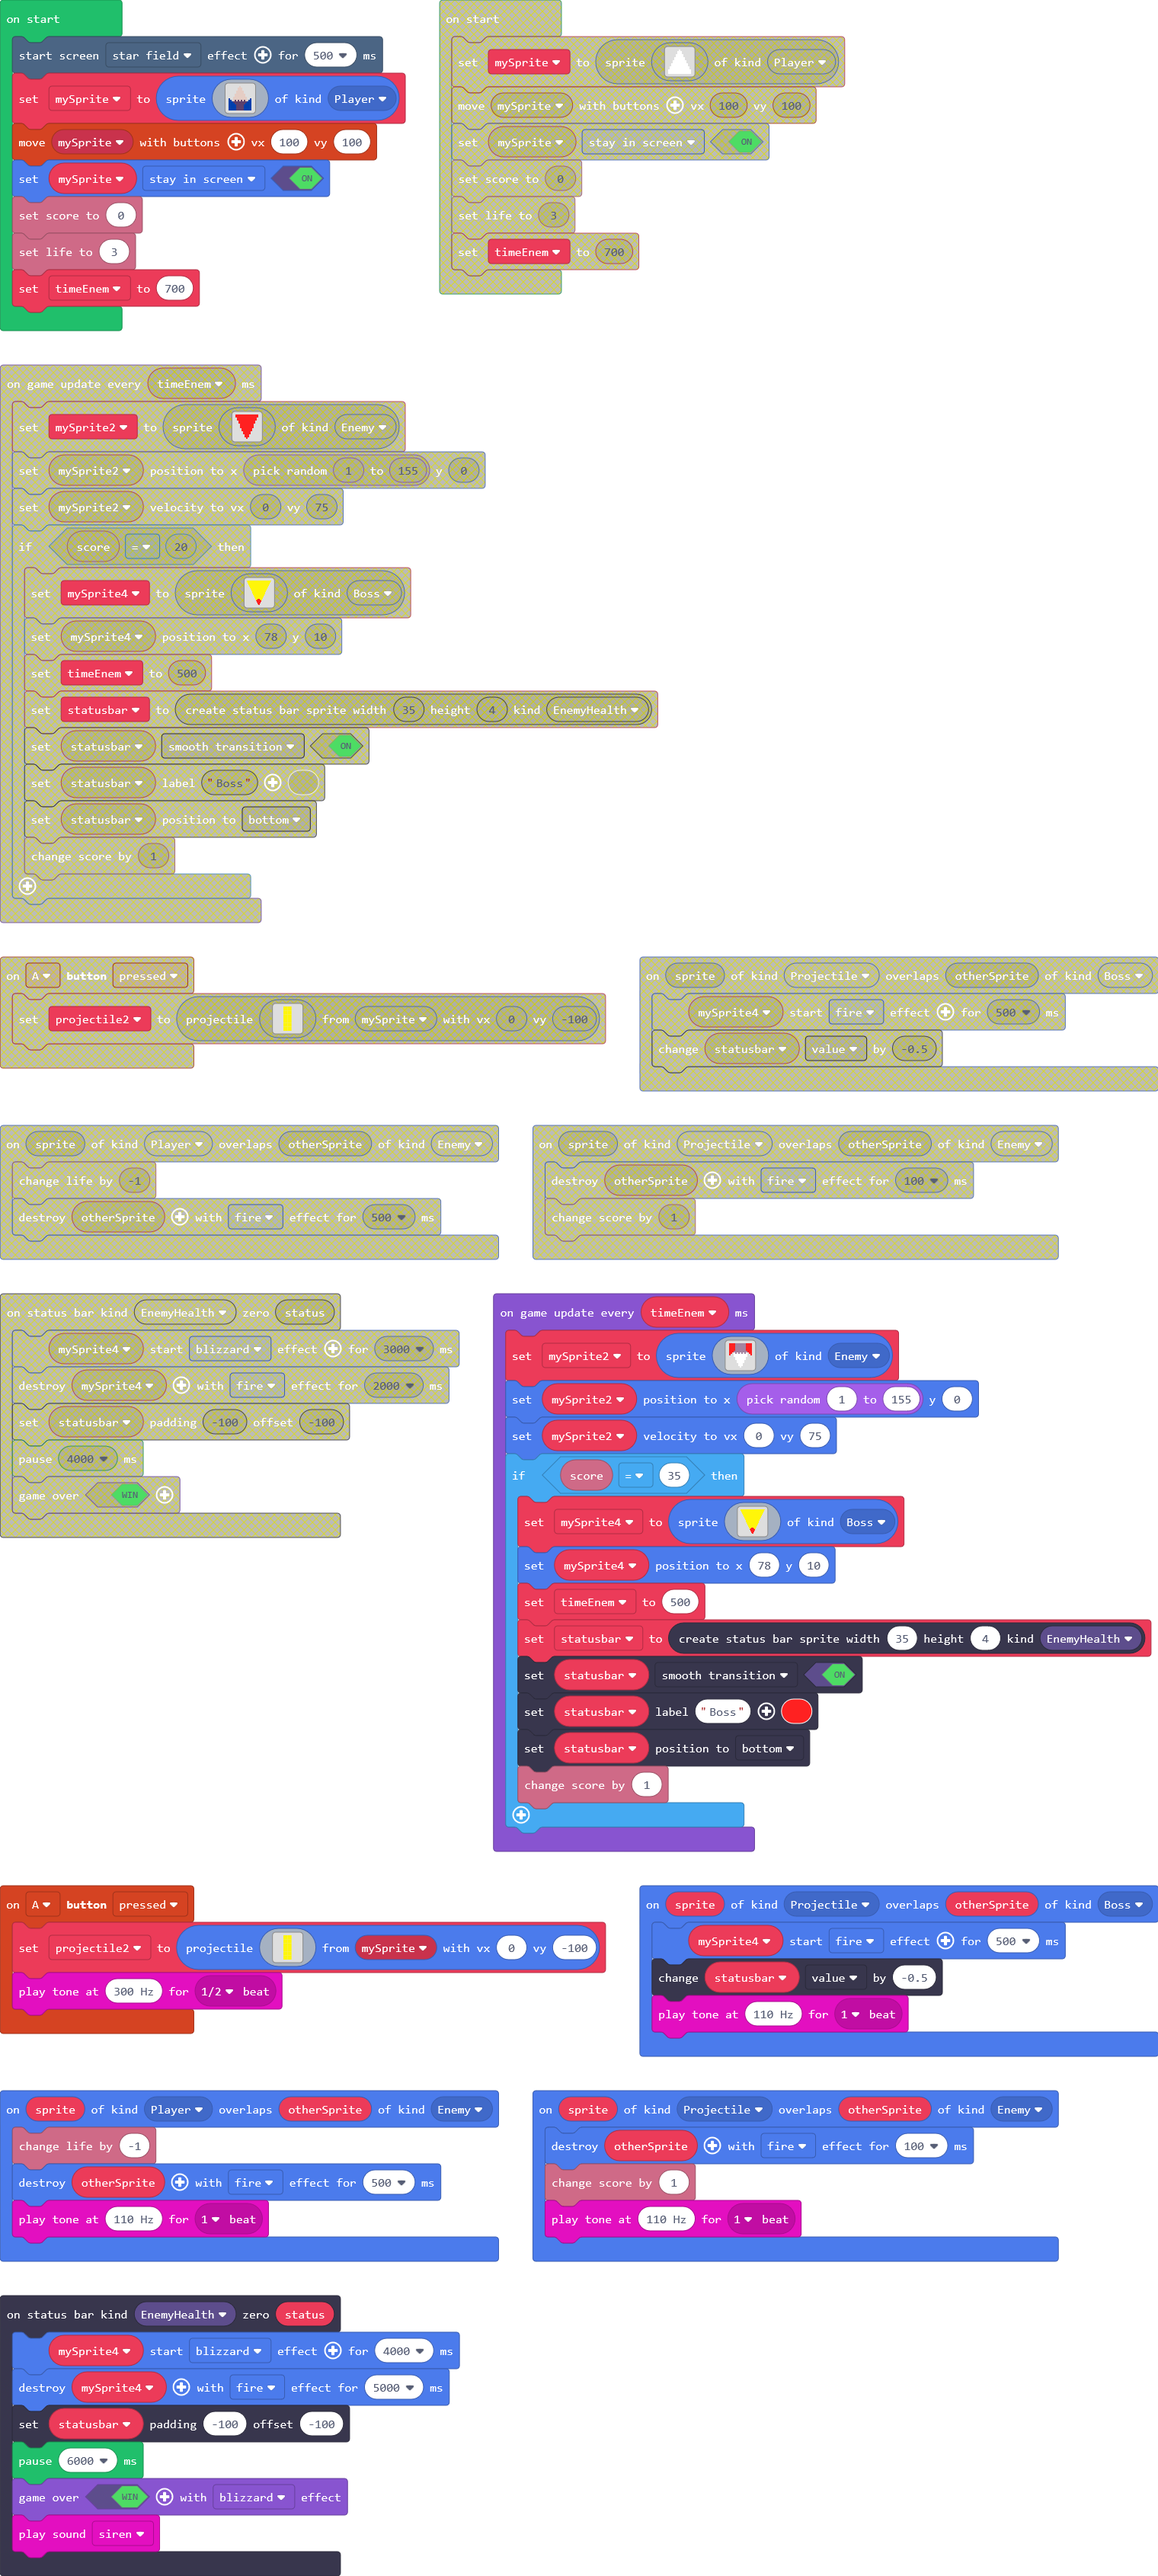
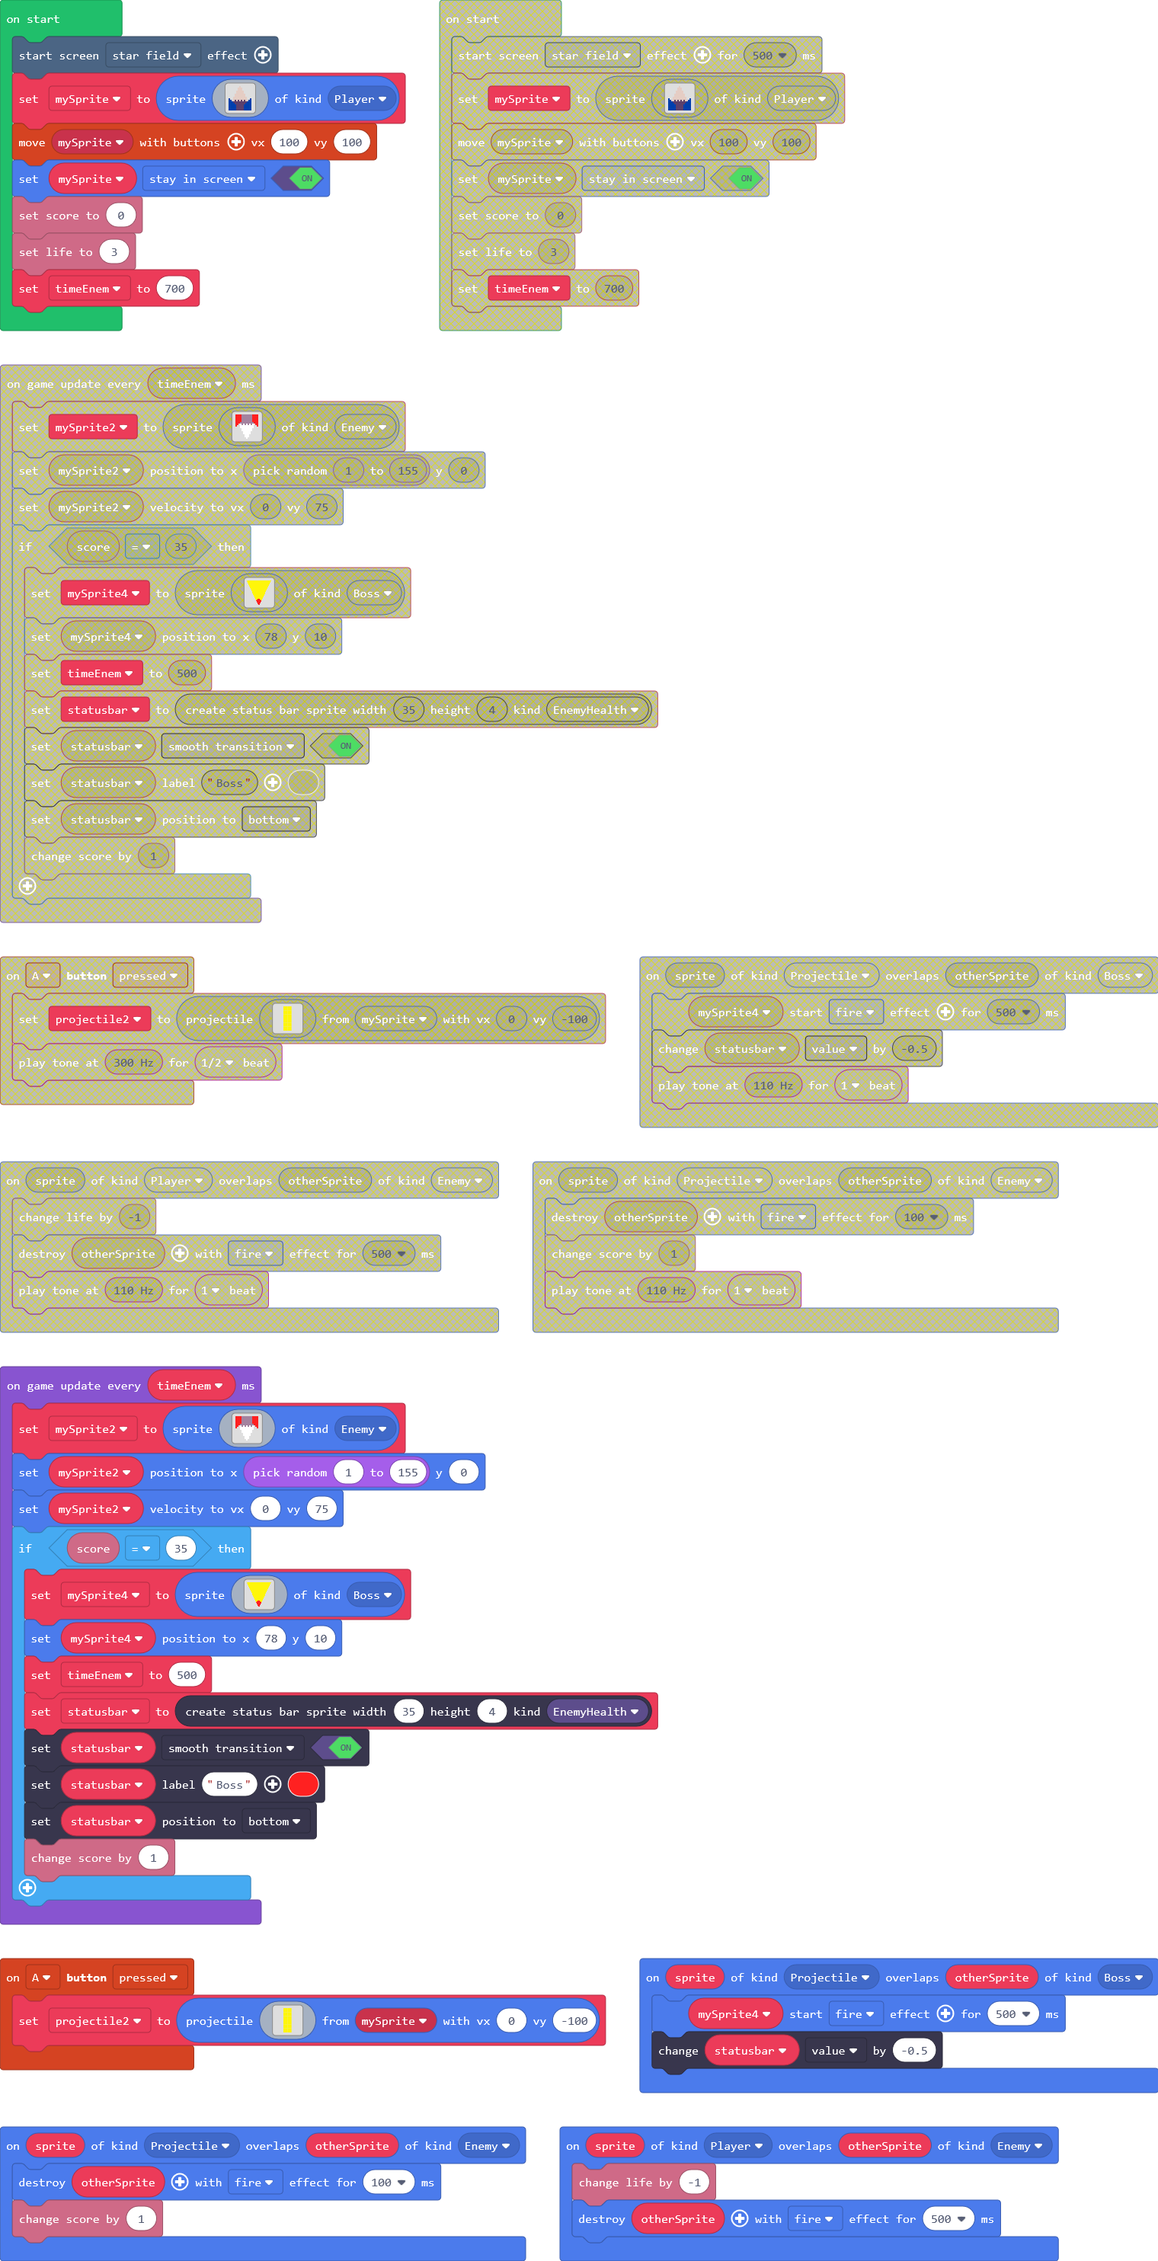
Update main.blocks, main.ts

diff --git a/main.ts b/main.ts
@@ -34,12 +34,10 @@ statusbars.onZero(StatusBarKind.EnemyHealth, function (status) {
 sprites.onOverlap(SpriteKind.Projectile, SpriteKind.Boss, function (sprite, otherSprite) {
     mySprite4.startEffect(effects.fire, 500)
     statusbar.value += -0.5
-    music.playTone(110, music.beat(BeatFraction.Whole))
 })
 sprites.onOverlap(SpriteKind.Projectile, SpriteKind.Enemy, function (sprite, otherSprite) {
     otherSprite.destroy(effects.fire, 100)
     info.changeScoreBy(1)
-    music.playTone(110, music.beat(BeatFraction.Whole))
 })
 controller.A.onEvent(ControllerButtonEvent.Pressed, function () {
     projectile2 = sprites.createProjectileFromSprite(img`
@@ -50,12 +48,10 @@ controller.A.onEvent(ControllerButtonEvent.Pressed, function () {
 5 5 
 5 5 
 `, mySprite, 0, -100)
-    music.playTone(300, music.beat(BeatFraction.Half))
 })
 sprites.onOverlap(SpriteKind.Player, SpriteKind.Enemy, function (sprite, otherSprite) {
     info.changeLifeBy(-1)
     otherSprite.destroy(effects.fire, 500)
-    music.playTone(110, music.beat(BeatFraction.Whole))
 })
 info.onLifeZero(function () {
     mySprite.destroy(effects.fire, 500)
